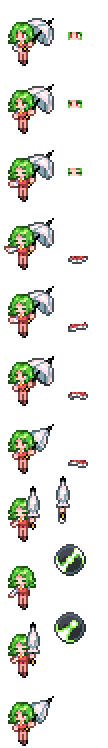
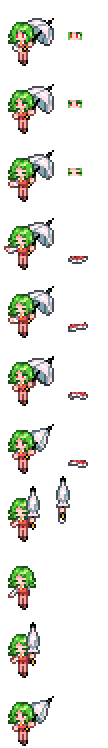
初步设置新喷洒模式 相机视角问题待修正

Changed region(s): [[0.5, 0.7995, 0.8056, 0.861], [0.5, 0.7072, 0.8056, 0.7687]]

diff --git a/Content/Projectiles/Pets/Yuka.cs b/Content/Projectiles/Pets/Yuka.cs
@@ -1,5 +1,6 @@
 using Microsoft.Xna.Framework;
 using Microsoft.Xna.Framework.Graphics;
+using System;
 using System.IO;
 using Terraria;
 using Terraria.ID;
@@ -16,8 +17,8 @@ namespace TouhouPets.Content.Projectiles.Pets
         {
             Idle,
             Blink,
-            Spraying = Phase_Spray_Mode1,
-            Spraying2 = Phase_Spray_Mode2,
+            Spraying = Phase_Spray_ManualMode,
+            Spraying2 = Phase_Spray_AutoMode,
             StopSpraying = Phase_StopSpray,
         }
         private States CurrentState
@@ -34,6 +35,11 @@ namespace TouhouPets.Content.Projectiles.Pets
         {
             get => (int)Projectile.localAI[1];
             set => Projectile.localAI[1] = value;
+        }
+        private float CameraLerpValue
+        {
+            get => Projectile.localAI[2];
+            set => Projectile.localAI[2] = value;
         }
         private bool IsIdleState => CurrentState <= States.Blink;
         private Vector2 YukaHandOrigin => Projectile.Center + new Vector2(-2 * Projectile.spriteDirection, 2);
@@ -62,6 +68,9 @@ namespace TouhouPets.Content.Projectiles.Pets
         }
         public override bool DrawPetSelf(ref Color lightColor)
         {
+            if (PetState == Phase_Spray_ManualMode)
+                lightColor = Color.White;
+
             DrawPetConfig config = drawConfig with
             {
                 ShouldUseEntitySpriteDraw = true,
@@ -141,13 +150,6 @@ namespace TouhouPets.Content.Projectiles.Pets
         }
         public override void AI()
         {
-            if (OwnerIsMyPlayer)
-            {
-                mousePos = Main.MouseWorld;
-                if (mainTimer % 5 == 0)
-                    Projectile.netUpdate = true;
-            }
-
             Projectile.SetPetActive(Owner, BuffType<YukaBuff>());
 
             ControlMovement();
@@ -195,13 +197,11 @@ namespace TouhouPets.Content.Projectiles.Pets
             Projectile.tileCollide = false;
             Projectile.rotation = Projectile.velocity.X * 0.005f;
 
-            ChangeDir();
+            if (PetState == Phase_Spray_AutoMode || PetState == Phase_Spray_ManualMode)
+                return;
 
+            ChangeDir();
             Vector2 point = new(-50 * Owner.direction, -45 + Owner.gfxOffY);
-            if (PetState == Phase_Spray_Mode2)
-            {
-                point = mousePos - Owner.Center;
-            }
             MoveToPoint(point, 12f);
         }
         private void Idle()
@@ -228,8 +228,51 @@ namespace TouhouPets.Content.Projectiles.Pets
         }
 
         #region 溶液喷洒相关
+        private void ManualControl()
+        {
+            Owner.biomeSight = true;
+            Owner.position -= Owner.velocity;
+
+            int speed = 1;
+            int maxSpeed = 14;
+
+            if (Math.Abs(Projectile.velocity.Length()) < maxSpeed)
+            {
+                if (Owner.controlLeft)
+                {
+                    Projectile.velocity.X -= speed;
+                    Projectile.spriteDirection = -1;
+                }
+                if (Owner.controlRight)
+                {
+                    Projectile.velocity.X += speed;
+                    Projectile.spriteDirection = 1;
+                }
+                if (Owner.controlUp)
+                {
+                    Projectile.velocity.Y -= speed;
+                }
+                if (Owner.controlDown)
+                {
+                    Projectile.velocity.Y += speed;
+                }
+            }
+            Projectile.velocity *= 0.9f;
+            Main.instance.CameraModifiers.Add(new YukaCameraModifier(Projectile, FullName));
+        }
         private void Spraying(int mode)
         {
+            bool autoMode = mode == 1;
+            bool dontShoot = !autoMode && !Owner.controlUseItem;
+
+            if (OwnerIsMyPlayer)
+            {
+                mousePos = Main.MouseWorld;
+
+                if (Main.MouseWorld != mousePos && Main.netMode != NetmodeID.SinglePlayer)
+                    Projectile.netUpdate = true;
+            }
+
             if (Projectile.frame < 5)
             {
                 Projectile.frame = 5;
@@ -261,22 +304,31 @@ namespace TouhouPets.Content.Projectiles.Pets
                     Timer = 0;
                     if (OwnerIsMyPlayer)
                     {
-                        if (Main.rand.NextBool(2, 3) && Solution.consumable && Solution.ammo > AmmoID.None)
+                        if (Main.rand.NextBool(2, 3) &&
+                            Solution.consumable &&
+                            Solution.ammo > AmmoID.None &&
+                            !dontShoot)
                             Solution.stack--;
                     }
                 }
 
-                if (mode == 1)
+                if (autoMode)
                 {
                     Angle += 2;
                     if (Angle > 359)
                         Angle = 0;
+
+                    MoveToPoint(mousePos - Owner.Center, 12f);
                 }
                 else
                 {
                     Angle = (int)MathHelper.ToDegrees((mousePos - YukaHandOrigin).ToRotation() + MathHelper.PiOver2);
+                    ManualControl();
                 }
 
+                if (dontShoot)
+                    return;
+                
                 if (Projectile.frameCounter % 2 == 0)
                 {
                     Vector2 pos = YukaHandOrigin + new Vector2(0, 7f * Main.essScale);

diff --git a/Common/Systems/SolutionSpraySystem.cs b/Common/Systems/SolutionSpraySystem.cs
@@ -28,11 +28,11 @@ namespace TouhouPets
             { ItemID.SnowSolution, new SprayInfo(ProjectileID.SnowSpray, MyDustId.WhiteBubble) },
         };
 
-        public const int Phase_Spray_Mode1 = 3;
-        public const int Phase_Spray_Mode2 = 4;
+        public const int Phase_Spray_ManualMode = 3;
+        public const int Phase_Spray_AutoMode = 4;
         public const int Phase_StopSpray = 5;
         public static Item Sprayer => new(ItemID.Clentaminator2);
-        public static bool IsSpraying => PetState >= Phase_Spray_Mode1 && PetState <= Phase_Spray_Mode2;
+        public static bool IsSpraying => PetState >= Phase_Spray_ManualMode && PetState <= Phase_Spray_AutoMode;
         public static Item Solution { get => solution; set => solution = value; }
         private static float PetState
         {
@@ -51,7 +51,6 @@ namespace TouhouPets
                 yuka.ai[1] = (int)value;
             }
         }
-
         public override void PostUpdateProjectiles()
         {
             if (Main.netMode == NetmodeID.Server || !SpecialAbility_Yuka)
@@ -130,7 +129,7 @@ namespace TouhouPets
                     {
                         if (Main.mouseRight && Main.mouseRightRelease)
                         {
-                            int targetMode = sprayMode == 0 ? Phase_Spray_Mode1 : Phase_Spray_Mode2;
+                            int targetMode = sprayMode == 0 ? Phase_Spray_ManualMode : Phase_Spray_AutoMode;
                             if (PetState != targetMode)
                             {
                                 PetState = targetMode;
@@ -183,7 +182,7 @@ namespace TouhouPets
             if (drawRequestText)
             {
                 if (!IsSpraying && PetState != Phase_StopSpray)
-                    DrawSprayModeSign(sprayMode == 0 ? 9 : 8);
+                    DrawSprayModeSign(sprayMode);
 
                 Utils.DrawBorderStringFourWay(Main.spriteBatch, FontAssets.MouseText.Value
                                 , Language.GetTextValue($"Mods.TouhouPets.Yuka{modeText}"), Main.MouseScreen.X + TextureAssets.Cursors[2].Width()
@@ -194,12 +193,12 @@ namespace TouhouPets
         }
         private static void DrawSprayModeSign(int frame)
         {
-            Texture2D t = AltVanillaFunction.ProjectileTexture(yuka.type);
-            int width = t.Width / 2;
-            int height = t.Height / Main.projFrames[yuka.type];
+            Texture2D t = AltVanillaFunction.GetExtraTexture("YukaControlUI");
+            int width = t.Width;
+            int height = t.Height / 2;
             Vector2 pos = yuka.Center + new Vector2(-50, -50)
                 - Main.screenPosition + new Vector2(0, 7f * Main.essScale);
-            Rectangle rect = new(width, frame * height, 32, 32);
+            Rectangle rect = new(0, frame * height, width, height);
             Vector2 orig = rect.Size() / 2;
             SpriteEffects effect = SpriteEffects.None;
             Main.spriteBatch.MyDraw(t, pos, rect, yuka.GetAlpha(Color.White), 0, orig, yuka.scale, effect, 0f);

diff --git a/Common/YukaCameraModifier.cs b/Common/YukaCameraModifier.cs
@@ -1,0 +1,40 @@
+using Microsoft.Xna.Framework;
+using Terraria;
+using Terraria.Graphics.CameraModifiers;
+using TouhouPets.Content.Projectiles.Pets;
+using static TouhouPets.SolutionSpraySystem;
+
+namespace TouhouPets
+{
+    public class YukaCameraModifier(Projectile pet, string uniqueIdentity = null) : ICameraModifier
+    {
+        public Vector2 targetPosition = pet.Center - new Vector2(Main.screenWidth / 2, Main.screenHeight / 2);
+        public string UniqueIdentity { get; private set; } = uniqueIdentity;
+        public bool Finished { get; private set; }
+        public void Update(ref CameraInfo cameraInfo)
+        {
+            if (pet == null || !pet.active ||
+                pet.owner != Main.myPlayer ||
+                pet.type != ProjectileType<Yuka>())
+            {
+                Finished = true;
+                return;
+            }
+            int state = (int)pet.ai[1];
+
+            cameraInfo.CameraPosition = Vector2.SmoothStep(cameraInfo.CameraPosition, targetPosition, pet.localAI[2]);
+            if (state == Phase_Spray_ManualMode)
+            {
+                if (pet.localAI[2] < 1)
+                    pet.localAI[2] += 0.01f;
+            }
+            if (state == Phase_StopSpray)
+            {
+                if (pet.localAI[2] >= 1)
+                    pet.localAI[2] -= 0.01f;
+                else
+                    Finished = true;
+            }
+        }
+    }
+}
